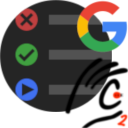
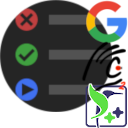
readmoe for doctest

Changed region(s): [[0.5, 0.0, 1.0, 1.0]]

diff --git a/README.md b/README.md
@@ -10,9 +10,10 @@
 [![GitHub license](https://img.shields.io/github/license/matepek/vscode-catch2-test-adapter.svg?style=for-the-badge)](https://github.com/matepek/vscode-catch2-test-adapter/blob/master/LICENSE)
 [![Code Style: Prettier](https://img.shields.io/badge/code_style-prettier-ff69b4.svg?style=for-the-badge)](https://github.com/prettier/prettier)
 
-This extension allows you to run your [Catch2](https://github.com/catchorg/Catch2)
-and [Google Test](https://github.com/google/googletest) tests using the
-[Test Explorer for VS Code](https://marketplace.visualstudio.com/items?itemName=hbenl.vscode-test-explorer).
+This extension allows you to run your [Catch2](https://github.com/catchorg/Catch2),
+[Google Test](https://github.com/google/googletest)
+and [doctest](https://github.com/onqtam/doctest) (experimental)
+tests using the [Test Explorer for VS Code](https://marketplace.visualstudio.com/items?itemName=hbenl.vscode-test-explorer).
 
 ## Features and Screenshots
 

diff --git a/CHANGELOG.md b/CHANGELOG.md
@@ -9,6 +9,10 @@ and this project adheres to [Semantic Versioning](https://semver.org/spec/v2.0.0
 
 ## [2.7.9]
 
+### Added
+
+- experimental support for [doctest](https://github.com/onqtam/doctest)
+
 ## [2.7.8] - 2019-12-08
 
 Finally I decided to use webpack. Package is the fraction of the previous version and loading time is faster.
